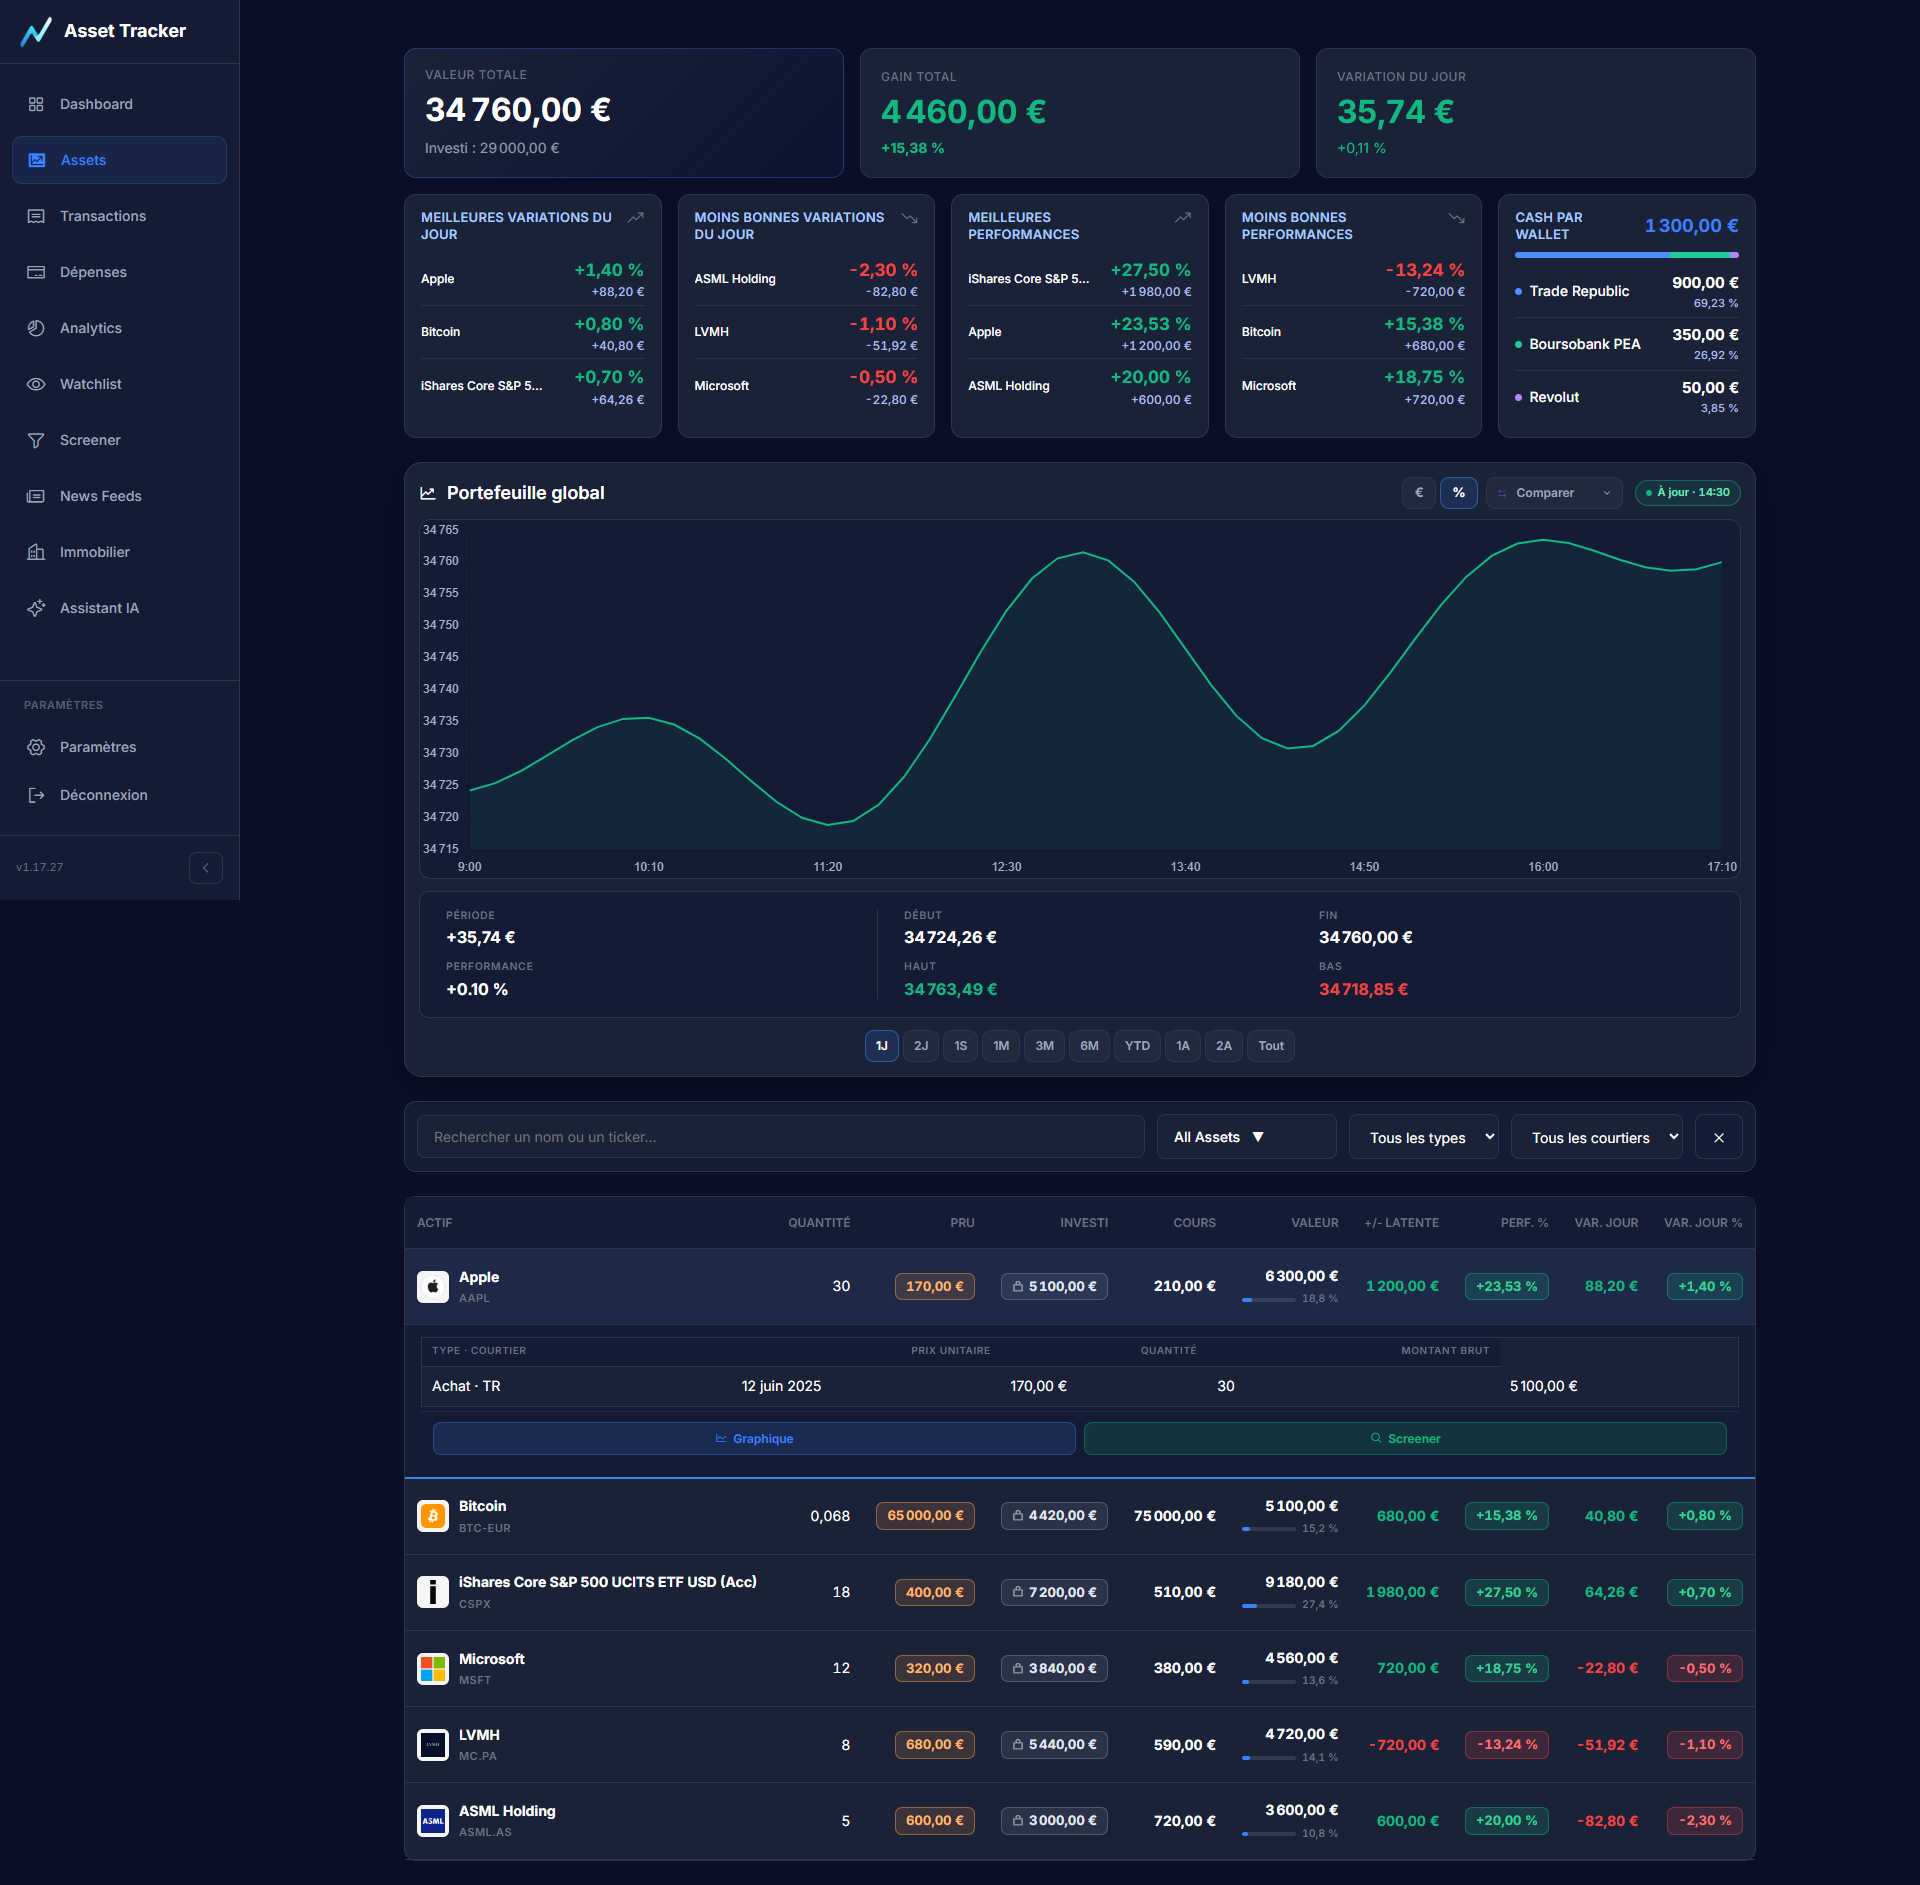
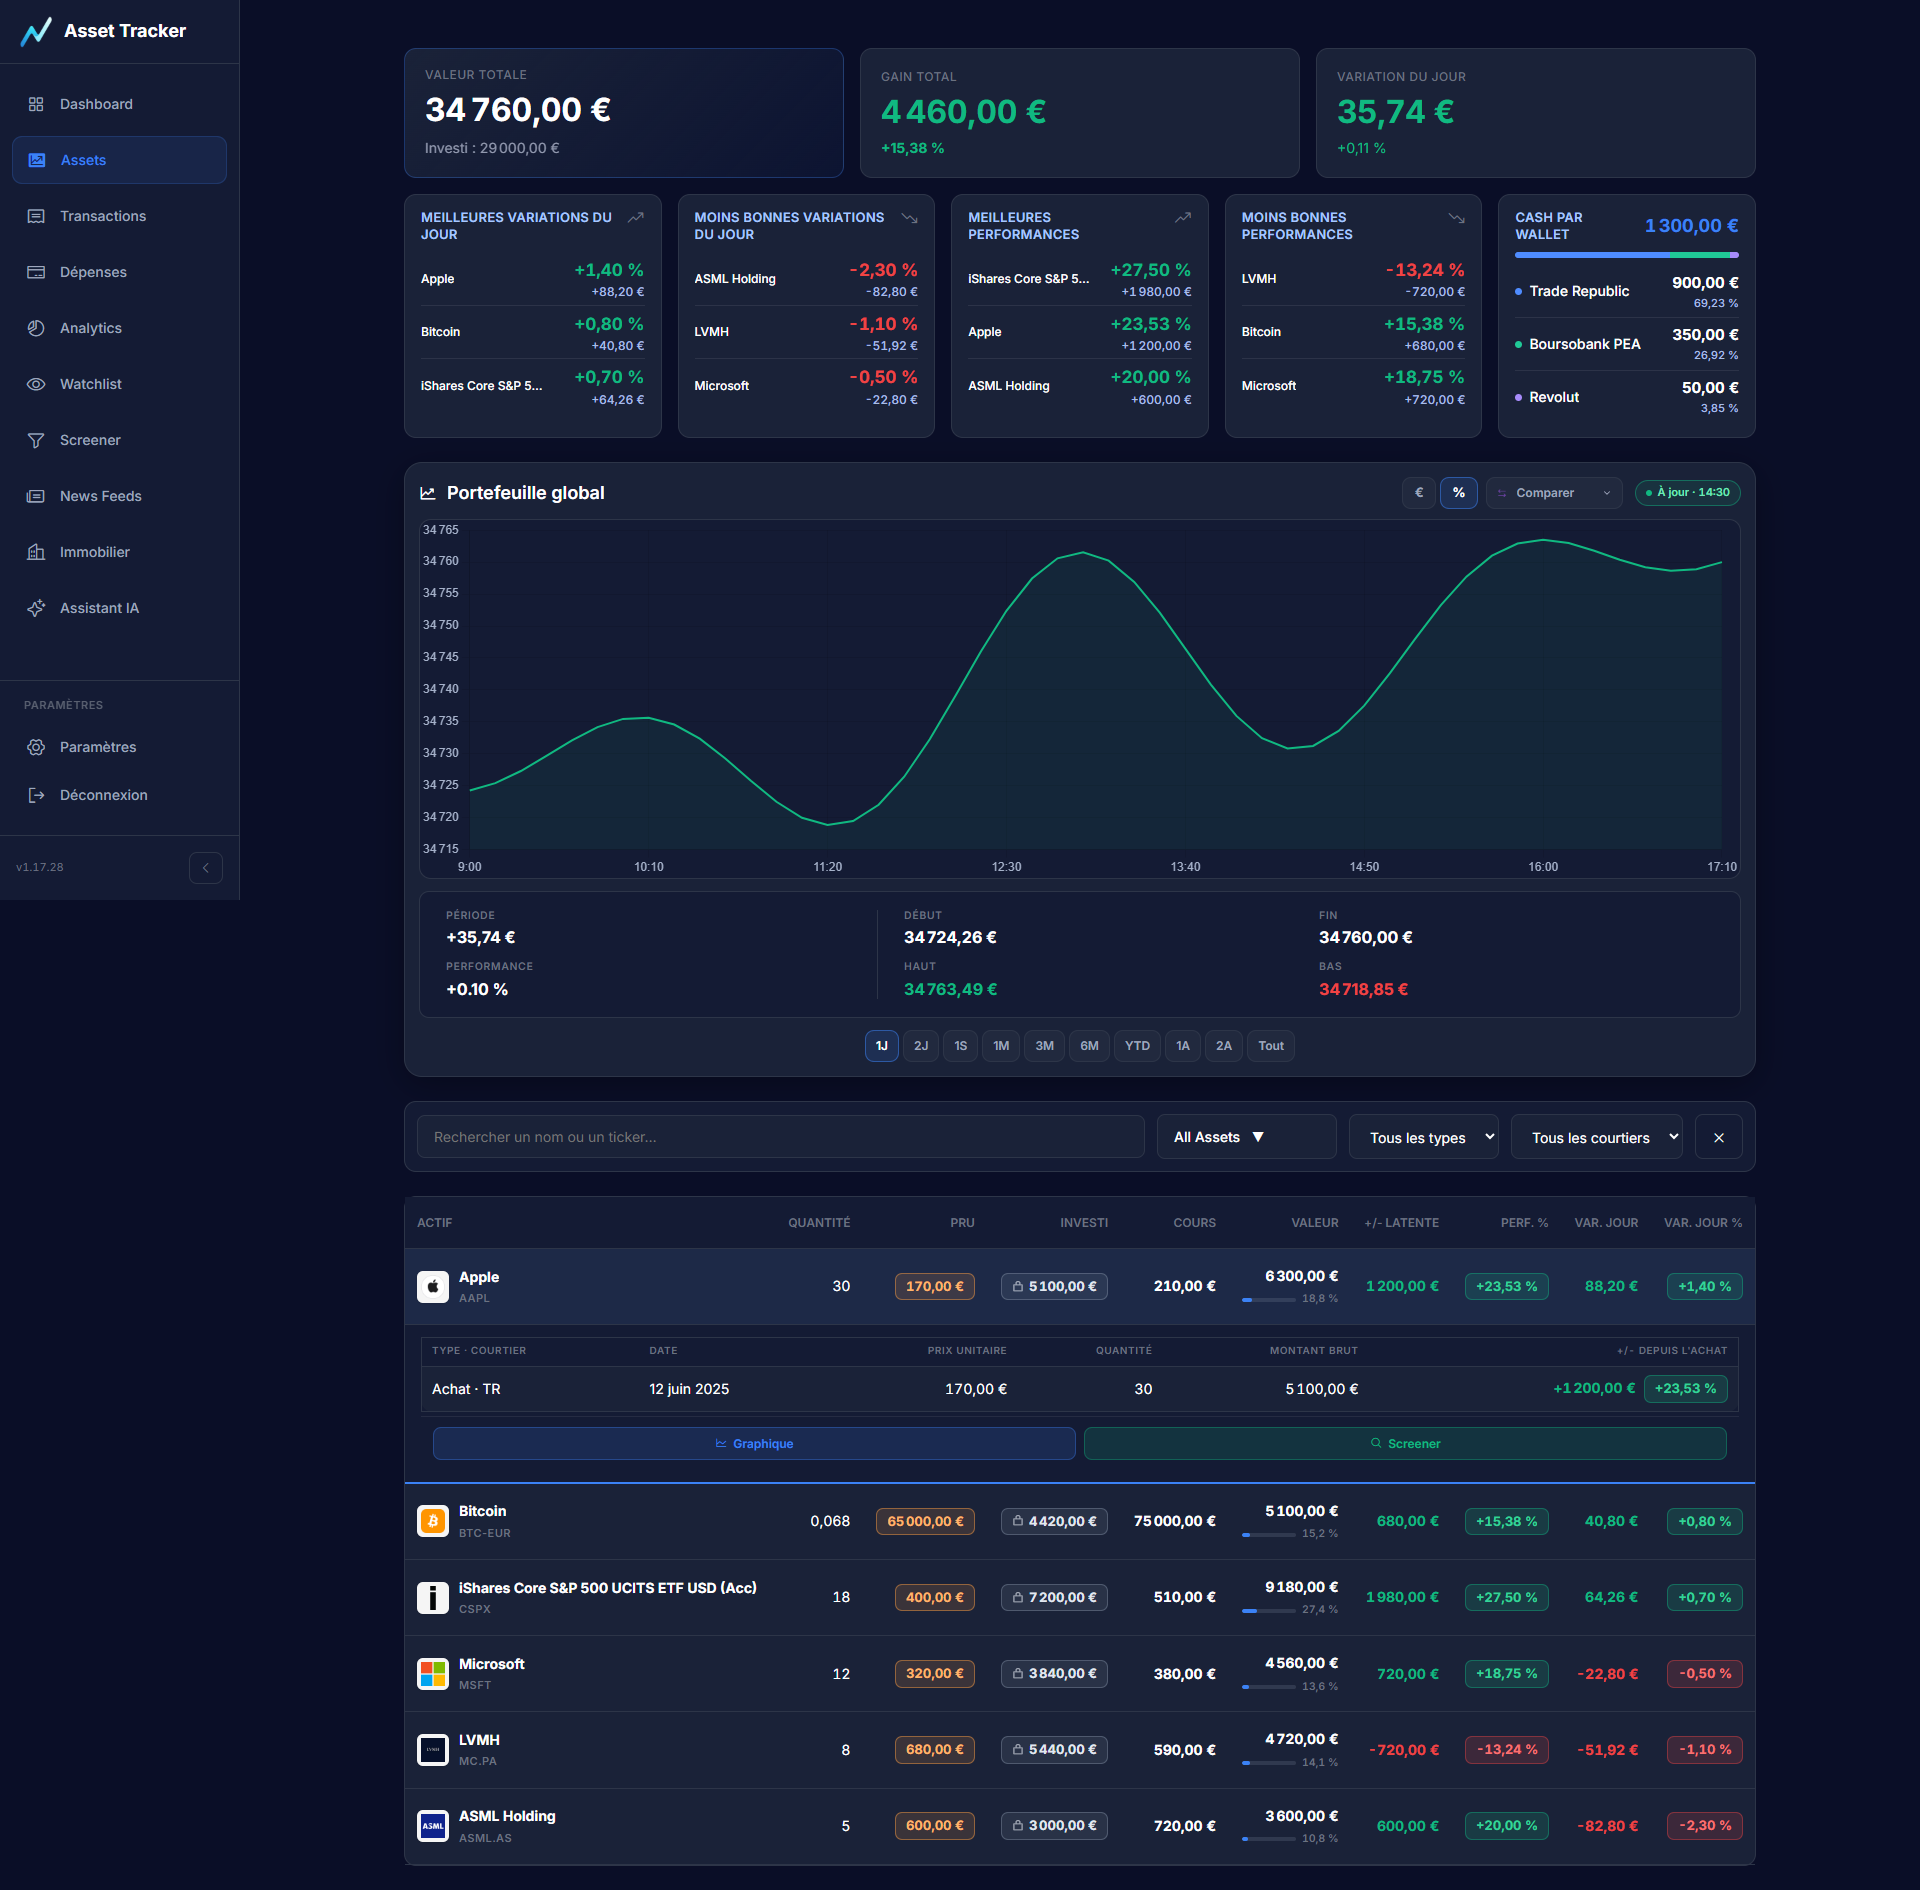
fix claude tab 3

diff --git a/css/investments-table-compact.css b/css/investments-table-compact.css
@@ -248,11 +248,14 @@
     }
 
     /* Largeurs fixes des colonnes (sur le header) */
-    #investments-table tbody tr.purchases-row .purchases-sub-table thead th:nth-child(1) { width: 26% !important; }
-    #investments-table tbody tr.purchases-row .purchases-sub-table thead th:nth-child(2) { width: 18% !important; text-align: right !important; }
-    #investments-table tbody tr.purchases-row .purchases-sub-table thead th:nth-child(3) { width: 9% !important; text-align: center !important; }
-    #investments-table tbody tr.purchases-row .purchases-sub-table thead th:nth-child(4) { width: 22% !important; text-align: right !important; }
-    #investments-table tbody tr.purchases-row .purchases-sub-table thead th:nth-child(5) { width: 25% !important; text-align: right !important; padding-right: 6px !important; }
+    /* Six columns; the sub-table scrolls horizontally (see the hint above it). */
+    #investments-table tbody tr.purchases-row .purchases-sub-table { min-width: 560px !important; }
+    #investments-table tbody tr.purchases-row .purchases-sub-table thead th:nth-child(1) { width: 20% !important; }
+    #investments-table tbody tr.purchases-row .purchases-sub-table thead th:nth-child(2) { width: 15% !important; }
+    #investments-table tbody tr.purchases-row .purchases-sub-table thead th:nth-child(3) { width: 14% !important; text-align: right !important; }
+    #investments-table tbody tr.purchases-row .purchases-sub-table thead th:nth-child(4) { width: 9% !important; text-align: right !important; }
+    #investments-table tbody tr.purchases-row .purchases-sub-table thead th:nth-child(5) { width: 16% !important; text-align: right !important; }
+    #investments-table tbody tr.purchases-row .purchases-sub-table thead th:nth-child(6) { width: 26% !important; text-align: right !important; padding-right: 6px !important; }
 
     #investments-table tbody tr.purchases-row .purchases-sub-table tbody {
         display: table-row-group !important;
@@ -281,44 +284,36 @@
         border-bottom: none !important;
     }
 
-    /* DATE */
-    #investments-table tbody tr.purchase-detail-row td:nth-child(1) {
-        color: var(--text-muted) !important;
-    }
-
-    /* PRIX D'ACHAT */
+    /* TYPE · COURTIER, DATE */
+    #investments-table tbody tr.purchase-detail-row td:nth-child(1),
     #investments-table tbody tr.purchase-detail-row td:nth-child(2) {
-        text-align: right !important;
         color: var(--text-muted) !important;
     }
 
-    /* QUANTITÉ */
-    #investments-table tbody tr.purchase-detail-row td:nth-child(3) {
-        text-align: center !important;
-    }
-
-    /* GAIN : afficher uniquement le badge % */
-    #investments-table tbody tr.purchase-detail-row td:nth-child(4) {
+    /* PRIX UNITAIRE, QUANTITÉ, MONTANT BRUT */
+    #investments-table tbody tr.purchase-detail-row td:nth-child(3),
+    #investments-table tbody tr.purchase-detail-row td:nth-child(4),
+    #investments-table tbody tr.purchase-detail-row td:nth-child(5) {
         text-align: right !important;
     }
 
-    #investments-table tbody tr.purchase-detail-row td:nth-child(4) span:not(.badge) {
-        display: none !important;
-    }
-
-    #investments-table tbody tr.purchase-detail-row td:nth-child(4) .badge {
-        font-size: 9px !important;
-        padding: 2px 5px !important;
-        display: inline-block !important;
-    }
-
-    /* VALEUR */
-    #investments-table tbody tr.purchase-detail-row td:nth-child(5) {
+    /* +/- DEPUIS L'ACHAT : montant et badge % */
+    #investments-table tbody tr.purchase-detail-row td:nth-child(6) {
         text-align: right !important;
         font-weight: 600 !important;
         font-size: 11px !important;
-        color: var(--text-primary) !important;
         padding-right: 6px !important;
+    }
+
+    #investments-table tbody tr.purchase-detail-row td:nth-child(6) .purchase-gain-amount {
+        margin-right: 4px !important;
+    }
+
+    #investments-table tbody tr.purchase-detail-row td:nth-child(6) .badge {
+        font-size: 9px !important;
+        padding: 2px 5px !important;
+        min-width: 0 !important;
+        display: inline-block !important;
     }
 
     /* Annuler le ::after data-quantity du td global (ici = date) */

diff --git a/src/investmentsPage.js b/src/investmentsPage.js
@@ -6,6 +6,7 @@
 
 import { PAGE_SIZE } from './config.js';
 import { formatCurrency, formatQuantity } from './utils.js';
+import { resolveHistoricalUsdToEurRate } from './MarketUtils.js';
 import { renderCompanyLogo } from './logoUtils.js';
 import { portfolioKPIs } from './portfolioKPIs.js'; // NEW: Centralized KPI management
 import { mountViewToggle } from './chartViewToggle.js';
@@ -366,13 +367,32 @@ export class InvestmentsPage {
         }).format(Number(purchase.price));
         const qty = purchase.quantity != null ? formatQuantity(Math.abs(Number(purchase.quantity))) : '—';
 
+        // Gain since this purchase (buys only): its cost at the USD→EUR rate of
+        // the purchase day (invariant 9), against the position's current EUR
+        // price. Fail-closed: no invented cost when that rate is unavailable.
+        let gainCell = '<span class="purchase-gain-none">—</span>';
+        if (!isSale && Number(purchase.quantity) > 0 && Number.isFinite(p.currentPrice) && purchase.price != null) {
+          const buyRate = buyCurrency === 'USD'
+            ? resolveHistoricalUsdToEurRate(purchase.date, this.dataManager.getCachedHistoricalFxMap?.(),
+                this.storage.getConversionRate?.('USD_TO_EUR'), { ticker: p.ticker, broker: purchase.broker })
+            : 1;
+          const costEUR = buyRate > 0 ? Number(purchase.price) * Number(purchase.quantity) * buyRate : null;
+          if (costEUR > 0) {
+            const gainEUR = settleZero(p.currentPrice * Number(purchase.quantity) - costEUR);
+            const gainPct = settleZero(gainEUR / costEUR * 100);
+            gainCell = `<span class="purchase-gain-amount ${toneClass(gainEUR, 'positive', 'negative', 'neutral-value')}">${gainEUR > 0 ? '+' : ''}${formatCurrency(gainEUR, 'EUR')}</span>`
+              + `<span class="badge ${toneClass(gainPct, 'badge-positive', 'badge-negative', 'badge-neutral')}">${formatInvestmentPercent(gainPct)}</span>`;
+          }
+        }
+
         return `
           <tr class="purchase-detail-row">
             <td>${isSale ? 'Vente' : 'Achat'} · ${escapeHtml(purchase.broker || 'Courtier inconnu')}</td>
             <td>${dateStr}</td>
-            <td>${unitPrice}</td>
-            <td>${qty}</td>
-            <td>${formatMovementAmount(purchase.price, purchase.quantity, buyCurrency)}</td>
+            <td class="num">${unitPrice}</td>
+            <td class="num">${qty}</td>
+            <td class="num">${formatMovementAmount(purchase.price, purchase.quantity, buyCurrency)}</td>
+            <td class="num purchase-gain">${gainCell}</td>
           </tr>
         `;
       }).join('');
@@ -396,9 +416,10 @@ export class InvestmentsPage {
                   <tr>
                     <th>TYPE · COURTIER</th>
                     <th>DATE</th>
-                    <th>PRIX UNITAIRE</th>
-                    <th>QUANTITÉ</th>
-                    <th>MONTANT BRUT</th>
+                    <th class="num">PRIX UNITAIRE</th>
+                    <th class="num">QUANTITÉ</th>
+                    <th class="num">MONTANT BRUT</th>
+                    <th class="num" title="Évolution du cours depuis chaque achat, appliquée à la quantité achetée (taux de change du jour de l'achat). Non calculé pour les ventes.">+/- DEPUIS L'ACHAT</th>
                   </tr>
                 </thead>
                 <tbody>

diff --git a/tests/investmentsAuditLot1.test.js b/tests/investmentsAuditLot1.test.js
@@ -34,13 +34,18 @@ function pageWithDom() {
 describe('Investment audit lot 1', () => {
     beforeEach(() => { document.body.innerHTML = ''; });
 
-    it('renders purchases and partial sales as movements, without inventing a per-lot gain', () => {
+    it('renders purchases and partial sales as movements; only buys show their gain since purchase', () => {
         const page = pageWithDom();
         page.renderData([holding()], {}, 0);
         const rows = [...document.querySelectorAll('.purchase-detail-row')].map(row => [...row.cells].map(cell => cell.textContent.trim()));
-        expect(rows[0]).toEqual(['Achat · TR', '1 janv. 2025', '100,00 €', '10', '1 000,00 €']);
-        expect(rows[1]).toEqual(['Vente · TR', '1 févr. 2025', '150,00 €', '5', '750,00 €']);
+        expect(rows[0].slice(0, 5)).toEqual(['Achat · TR', '1 janv. 2025', '100,00 €', '10', '1 000,00 €']);
+        // Bought 10 at 100 €, now 200 €: +1 000 € / +100 % on the quantity bought.
+        expect(rows[0][5].replace(/\s/g, '')).toBe('+1000,00€+100,00%');
+        // A sale has no "gain since purchase": never the gap to today's price.
+        expect(rows[1][5]).toBe('—');
+        expect(rows[1].slice(0, 5)).toEqual(['Vente · TR', '1 févr. 2025', '150,00 €', '5', '750,00 €']);
         expect(document.querySelector('.purchases-sub-table').textContent).not.toContain('GAIN TOTAL');
+        expect(document.querySelector('.purchases-sub-table').textContent).toContain("+/- DEPUIS L'ACHAT");
     });
 
     it('keeps asset identity visible in the first cell and treats names as text', () => {

diff --git a/css/investments.css b/css/investments.css
@@ -616,6 +616,20 @@
     color: #10b981;
 }
 
+/* Gain since the purchase: amount then its % badge, on one line. */
+.purchases-sub-table td.purchase-gain {
+    white-space: nowrap;
+}
+
+.purchases-sub-table .purchase-gain-amount {
+    margin-right: 8px;
+    font-weight: 700;
+}
+
+.purchases-sub-table .purchase-gain-none {
+    color: var(--text-muted);
+}
+
 .purchases-sub-table .negative {
     color: #ef4444;
 }
@@ -709,7 +723,7 @@
    column stays in the DOM for the mobile layout), numbers right-aligned in
    fixed-width digits, position weight under the value. */
 @media (min-width: 769px) {
-    #investments-table thead th:nth-child(2),
+    #investments-table > thead > tr > th:nth-child(2),
     #investments-table tbody tr.asset-row > td:nth-child(2) { display: none; }
 
     #investments-table .investment-asset-text strong {
@@ -728,9 +742,15 @@
         letter-spacing: 0.04em;
     }
 
-    #investments-table thead th:nth-child(n+3),
+    #investments-table > thead > tr > th:nth-child(n+3),
     #investments-table tbody tr.asset-row > td.num {
         text-align: right;
+    }
+
+    /* Purchases sub-table: numbers right-aligned under their headings. */
+    #investments-table .purchases-sub-table :is(th, td).num {
+        text-align: right;
+        font-variant-numeric: tabular-nums;
     }
 
     #investments-table tbody tr.asset-row > td.num {

diff --git a/investments.html b/investments.html
@@ -14,9 +14,9 @@
     <link rel="stylesheet" href="css/variables.css">
     <link rel="stylesheet" href="css/layout.css?v=51">
     <link rel="stylesheet" href="css/components.css?v=3">
-    <link rel="stylesheet" href="css/investments.css?v=70">
+    <link rel="stylesheet" href="css/investments.css?v=71">
     <link rel="stylesheet" href="css/investments-mobile.css?v=11">
-    <link rel="stylesheet" href="css/investments-table-compact.css?v=8">
+    <link rel="stylesheet" href="css/investments-table-compact.css?v=9">
     <link rel="stylesheet" href="css/chart-toolbar.css?v=9">
 
     <link rel="preconnect" href="https://fonts.googleapis.com">

diff --git a/RELEASES.md b/RELEASES.md
@@ -53,6 +53,7 @@ sont pas assimilés à de nouvelles fonctionnalités.
 | `1.17.26` | 2026-10-12 | fix claude tab | — |
 | `1.17.27` | 2026-10-12 | fix claude tab 1 | — |
 | `1.17.28` | 2026-10-12 | fix claude tab 2 | — |
+| `1.17.29` | 2026-10-12 | fix claude tab 3 | — |
 
 Les messages de commit pilotent les nouvelles versions. Les scripts de
 déploiement ajoutent désormais aussi chaque correctif à ce tableau avant les
